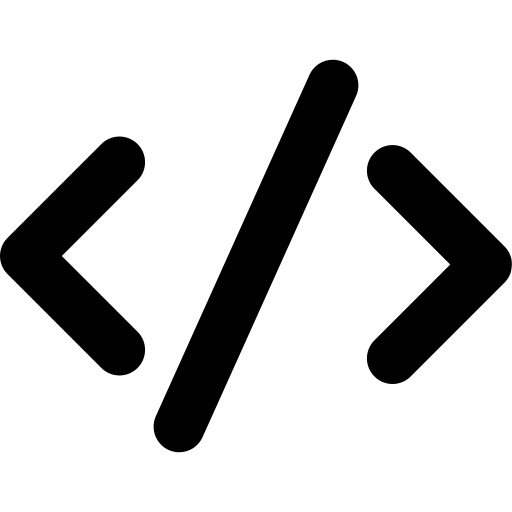
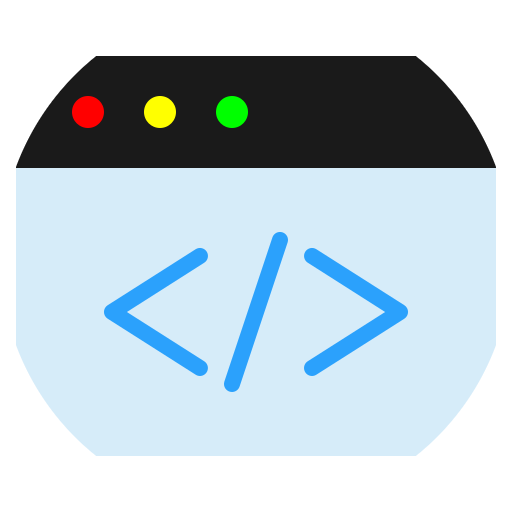
Added floating elements to the page

diff --git a/css/styles.css b/css/styles.css
@@ -1,25 +1,28 @@
 body {
     background-color: #E3F2FD;
     font-family: "Merriweather", serif;
+    font-size: 1.1rem;
     text-align: center;
     margin: 0;
 }
 
 
 h1 {
+    color: #66BFBF;
     margin: 50px auto 0 auto;
     font-family: "Sacramento", cursive;
     font-size: 5.625rem;
 }
 
 h2 {
+    color: #66BFBF;
     font-family: "Montserrat", sans-serif;
     font-size: 2.5rem;
+    font-weight: normal;
 }
 
-h3{
-
-
+h3, a {
+    color:#11999E;
 }
 
 
@@ -28,6 +31,12 @@ h3{
     position: relative;
 }
 
+
+.middle-container {
+    background-color: white;
+    padding-top: 100px;
+    position: relative;
+}
 
 .top-cloud {
     position: absolute;
@@ -39,4 +48,47 @@ h3{
     position: absolute;
     left: 300px;
     bottom: 300px;
+}
+
+.web-dev {
+    width: 25%;
+    float: left;
+    margin-right: 30px;
+}
+
+.game-dev{
+    width: 25%;
+    float: right;
+    margin-left: 30px;
+}
+
+.skill-row {
+    width: 50%;
+    margin: 100px auto 100px auto;
+    text-align: left;
+    line-height: 2;
+}
+
+hr {
+    border-top: 5px dotted rgb(165, 165, 165);
+    width: 3%;
+    margin: 100px auto 100px auto;
+}
+
+.bottom-container{
+    background-color: #24B1B1;
+}
+
+.contact-me {
+    line-height: 2;
+    margin: 100px auto;
+}
+
+.btn {
+    border: 2px;
+    border-radius: 5px;
+    padding: 10px 20px;
+    border-width: 2px;
+    background-color: #3498db;
+    text-decoration: none;
 }

diff --git a/index.html b/index.html
@@ -15,7 +15,7 @@
         <img class="top-cloud" src="images/cloud.png" alt="cloud-img">
 
         <h1>Fredrick Sika</h1>
-        <p>I'm a Computer Science student and a passionate web developer.</p>
+        <h2 class="intro">a <span  style="text-decoration: underline;">Pro</span>grammer</h2>
         <img class="bottom-cloud" src="images/cloud.png" alt="cloud-img">
         <img src="images/mountain.png" alt="mountain-img">
     </div>
@@ -32,10 +32,10 @@
     <div class="skill-row">
       <img class="web-dev" src="images/web-designing.png" alt="Web Development-img">
       <h3>Full-Stack Web Developer</h3>
-      <p>Proficient in creating responsive and interactive web applications using modern technologies and frameworks.</p>
+      <p>Proficient in creating responsive and interactive web applications using modern technologies and frameworks. </p>
     </div>
     <div class="skill-row">
-      <img class="game-developer" src="images/game-development.png" alt="Game Development-img">
+      <img class="game-dev" src="images/game-development.png" alt="Game Development-img">
       <h3>Game Developer</h3>
       <p>Passionate about creating engaging and interactive games using modern game development techniques and tools(Unreal Engine, Godot).</p>
     </div>
